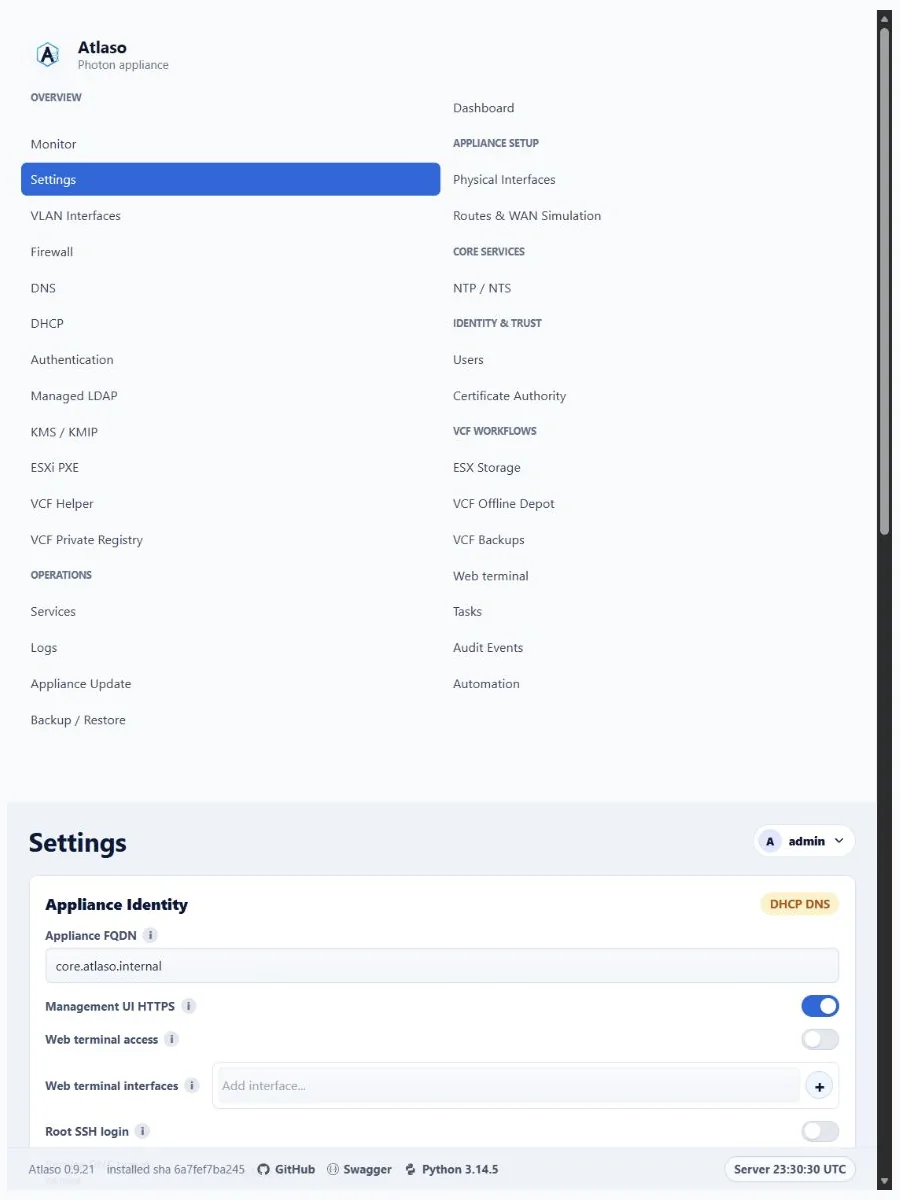
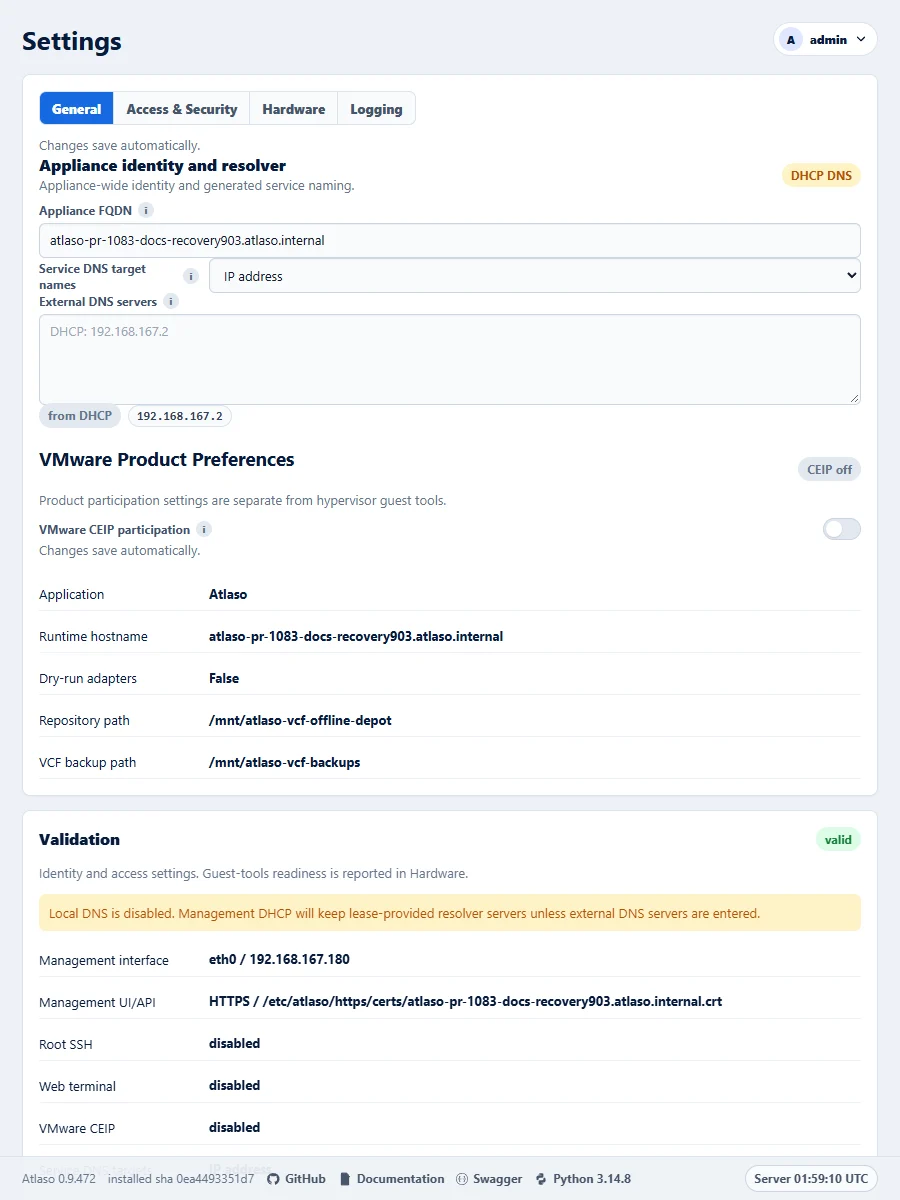
Document verified Settings and guest-tools states

diff --git a/scripts/generate_screenshot_manifest.py b/scripts/generate_screenshot_manifest.py
@@ -19,6 +19,26 @@ CANONICAL_BROWSER_ROOTS = {
 }
 
 CAPTURE_OVERRIDES = {
+    # Captured from the dedicated documentation appliance at exact PR source.
+    **{
+        stem: {
+            "source_commit": "903062d0c863f8e67eb11d774a2466c4de387c8c",
+            "atlaso_version": "0.9.472",
+            "capture_method": "playwright-chromium",
+        }
+        for stem in (
+            "settings-clean-desktop",
+            "settings-access-security-desktop",
+            "settings-logging-desktop",
+            "settings-clean-responsive",
+            "settings-access-security-responsive",
+            "settings-logging-responsive",
+            "settings-guest-tools-ready-desktop",
+            "settings-hardware-inventories-desktop",
+            "settings-hardware-desktop",
+            "settings-hardware-responsive",
+        )
+    },
     **{
         stem: {
             "source_commit": "5486d1671f59f67ea0778b9d98f42e0988f19d23+working-tree",
@@ -390,6 +410,66 @@ ROUTES = {
 }
 
 SPECIAL = {
+    "settings-clean-desktop": (
+        "/settings",
+        "clean",
+        "General tab in the dedicated documentation appliance at the desktop viewport.",
+        "Atlaso Settings General tab in the desktop layout.",
+    ),
+    "settings-access-security-desktop": (
+        "/ui/management/settings",
+        "access-security",
+        "Access & Security tab in the dedicated documentation appliance at the desktop viewport.",
+        "Atlaso Settings Access & Security tab in the desktop layout.",
+    ),
+    "settings-logging-desktop": (
+        "/ui/management/settings",
+        "logging",
+        "Logging tab in the dedicated documentation appliance at the desktop viewport.",
+        "Atlaso Settings Logging tab in the desktop layout.",
+    ),
+    "settings-clean-responsive": (
+        "/settings",
+        "clean",
+        "General tab in the dedicated documentation appliance at the responsive viewport.",
+        "Atlaso Settings General tab in the responsive layout.",
+    ),
+    "settings-access-security-responsive": (
+        "/ui/management/settings",
+        "access-security",
+        "Access & Security tab in the dedicated documentation appliance at the responsive viewport.",
+        "Atlaso Settings Access & Security tab in the responsive layout.",
+    ),
+    "settings-logging-responsive": (
+        "/ui/management/settings",
+        "logging",
+        "Logging tab in the dedicated documentation appliance at the responsive viewport.",
+        "Atlaso Settings Logging tab in the responsive layout.",
+    ),
+    "settings-guest-tools-ready-desktop": (
+        "/ui/management/settings",
+        "guest-tools-ready",
+        "VMware Tools are installed and healthy; maintenance is disabled because no package or service change is needed.",
+        "Atlaso Hardware guest-tools details showing VMware Tools 13.1.0 installed and available, with a healthy protected clock.",
+    ),
+    "settings-hardware-inventories-desktop": (
+        "/ui/management/settings",
+        "hardware-inventories",
+        "Read-only inventories show the documentation appliance disks and network adapters.",
+        "Atlaso Hardware inventories showing four disks and two network adapters with their observed details.",
+    ),
+    "settings-hardware-desktop": (
+        "/ui/management/settings",
+        "hardware",
+        "Hardware summary with healthy VMware Tools and a protected synchronized NTP clock in the desktop layout.",
+        "Atlaso Hardware tab showing detected VMware hardware, installed and available tool versions, and healthy clock protection in the desktop layout.",
+    ),
+    "settings-hardware-responsive": (
+        "/ui/management/settings",
+        "hardware",
+        "Hardware summary with healthy VMware Tools and a protected synchronized NTP clock in the responsive layout.",
+        "Atlaso Hardware tab showing detected VMware hardware, installed and available tool versions, and healthy clock protection in the responsive layout.",
+    ),
     **{
         f"vcf-appliance-certificate-sddc-server-{viewport}": (
             "/ui/management/vcf-helper", "sddc-target-selection",
@@ -877,7 +957,7 @@ def metadata(path: Path) -> dict[str, object]:
     else:
         route, state, caption, alt = clean_entry(stem)
     responsive = "responsive" in stem or "narrow" in stem
-    entry = {
+    entry: dict[str, object] = {
         "path": path.relative_to(ROOT / "docs").as_posix(),
         "route": route,
         "state": state,

diff --git a/docs/operate/appliance-settings.md b/docs/operate/appliance-settings.md
@@ -19,9 +19,9 @@ the point of action.
 
 This verified appliance view provides visual orientation before you begin.
 
-![Atlaso Settings page in the clean-appliance desktop viewport.](../assets/screenshots/settings-clean-desktop.webp)
+![Atlaso Settings General tab in the desktop layout.](../assets/screenshots/settings-clean-desktop.webp)
 
-*Figure: Settings in the verified clean-appliance desktop state.*
+*Figure: General tab in the dedicated documentation appliance at the desktop viewport.*
 
 <!-- END GENERATED INTERFACE OVERVIEW -->
 
@@ -169,9 +169,41 @@ These captures show responsive layouts and useful operational states referenced 
 
 ### Appliance Settings
 
-![Atlaso Settings page in the clean-appliance responsive viewport.](../assets/screenshots/settings-clean-responsive.webp)
+![Atlaso Settings Access & Security tab in the desktop layout.](../assets/screenshots/settings-access-security-desktop.webp)
 
-*Figure: Settings in the verified clean-appliance responsive state.*
+*Figure: Access & Security tab in the dedicated documentation appliance at the desktop viewport.*
+
+![Atlaso Settings Access & Security tab in the responsive layout.](../assets/screenshots/settings-access-security-responsive.webp)
+
+*Figure: Access & Security tab in the dedicated documentation appliance at the responsive viewport.*
+
+![Atlaso Settings General tab in the responsive layout.](../assets/screenshots/settings-clean-responsive.webp)
+
+*Figure: General tab in the dedicated documentation appliance at the responsive viewport.*
+
+![Atlaso Hardware guest-tools details showing VMware Tools 13.1.0 installed and available, with a healthy protected clock.](../assets/screenshots/settings-guest-tools-ready-desktop.webp)
+
+*Figure: VMware Tools are installed and healthy; maintenance is disabled because no package or service change is needed.*
+
+![Atlaso Hardware tab showing detected VMware hardware, installed and available tool versions, and healthy clock protection in the desktop layout.](../assets/screenshots/settings-hardware-desktop.webp)
+
+*Figure: Hardware summary with healthy VMware Tools and a protected synchronized NTP clock in the desktop layout.*
+
+![Atlaso Hardware inventories showing four disks and two network adapters with their observed details.](../assets/screenshots/settings-hardware-inventories-desktop.webp)
+
+*Figure: Read-only inventories show the documentation appliance disks and network adapters.*
+
+![Atlaso Hardware tab showing detected VMware hardware, installed and available tool versions, and healthy clock protection in the responsive layout.](../assets/screenshots/settings-hardware-responsive.webp)
+
+*Figure: Hardware summary with healthy VMware Tools and a protected synchronized NTP clock in the responsive layout.*
+
+![Atlaso Settings Logging tab in the desktop layout.](../assets/screenshots/settings-logging-desktop.webp)
+
+*Figure: Logging tab in the dedicated documentation appliance at the desktop viewport.*
+
+![Atlaso Settings Logging tab in the responsive layout.](../assets/screenshots/settings-logging-responsive.webp)
+
+*Figure: Logging tab in the dedicated documentation appliance at the responsive viewport.*
 
 ![Atlaso Settings page with valid pending appliance identity changes.](../assets/screenshots/settings-pending-desktop.webp)
 

diff --git a/docs/reference/interface-gallery.md b/docs/reference/interface-gallery.md
@@ -511,13 +511,45 @@ Figure: Services in the verified clean-appliance responsive state.
 
 Route: `/ui/management/settings`
 
-![Atlaso Settings page in the clean-appliance desktop viewport.](../assets/screenshots/settings-clean-desktop.webp)
+![Atlaso Settings Access & Security tab in the desktop layout.](../assets/screenshots/settings-access-security-desktop.webp)
 
-Figure: Settings in the verified clean-appliance desktop state.
+Figure: Access & Security tab in the dedicated documentation appliance at the desktop viewport.
 
-![Atlaso Settings page in the clean-appliance responsive viewport.](../assets/screenshots/settings-clean-responsive.webp)
+![Atlaso Settings Access & Security tab in the responsive layout.](../assets/screenshots/settings-access-security-responsive.webp)
 
-Figure: Settings in the verified clean-appliance responsive state.
+Figure: Access & Security tab in the dedicated documentation appliance at the responsive viewport.
+
+![Atlaso Settings General tab in the desktop layout.](../assets/screenshots/settings-clean-desktop.webp)
+
+Figure: General tab in the dedicated documentation appliance at the desktop viewport.
+
+![Atlaso Settings General tab in the responsive layout.](../assets/screenshots/settings-clean-responsive.webp)
+
+Figure: General tab in the dedicated documentation appliance at the responsive viewport.
+
+![Atlaso Hardware guest-tools details showing VMware Tools 13.1.0 installed and available, with a healthy protected clock.](../assets/screenshots/settings-guest-tools-ready-desktop.webp)
+
+Figure: VMware Tools are installed and healthy; maintenance is disabled because no package or service change is needed.
+
+![Atlaso Hardware tab showing detected VMware hardware, installed and available tool versions, and healthy clock protection in the desktop layout.](../assets/screenshots/settings-hardware-desktop.webp)
+
+Figure: Hardware summary with healthy VMware Tools and a protected synchronized NTP clock in the desktop layout.
+
+![Atlaso Hardware inventories showing four disks and two network adapters with their observed details.](../assets/screenshots/settings-hardware-inventories-desktop.webp)
+
+Figure: Read-only inventories show the documentation appliance disks and network adapters.
+
+![Atlaso Hardware tab showing detected VMware hardware, installed and available tool versions, and healthy clock protection in the responsive layout.](../assets/screenshots/settings-hardware-responsive.webp)
+
+Figure: Hardware summary with healthy VMware Tools and a protected synchronized NTP clock in the responsive layout.
+
+![Atlaso Settings Logging tab in the desktop layout.](../assets/screenshots/settings-logging-desktop.webp)
+
+Figure: Logging tab in the dedicated documentation appliance at the desktop viewport.
+
+![Atlaso Settings Logging tab in the responsive layout.](../assets/screenshots/settings-logging-responsive.webp)
+
+Figure: Logging tab in the dedicated documentation appliance at the responsive viewport.
 
 ![Atlaso Settings page with valid pending appliance identity changes.](../assets/screenshots/settings-pending-desktop.webp)
 
